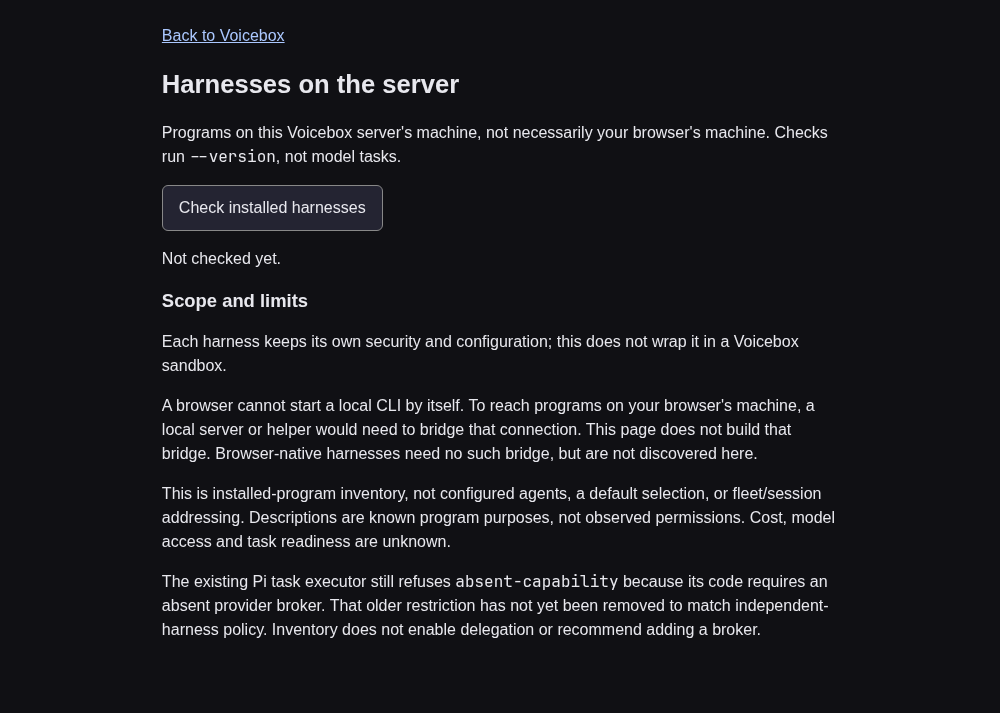
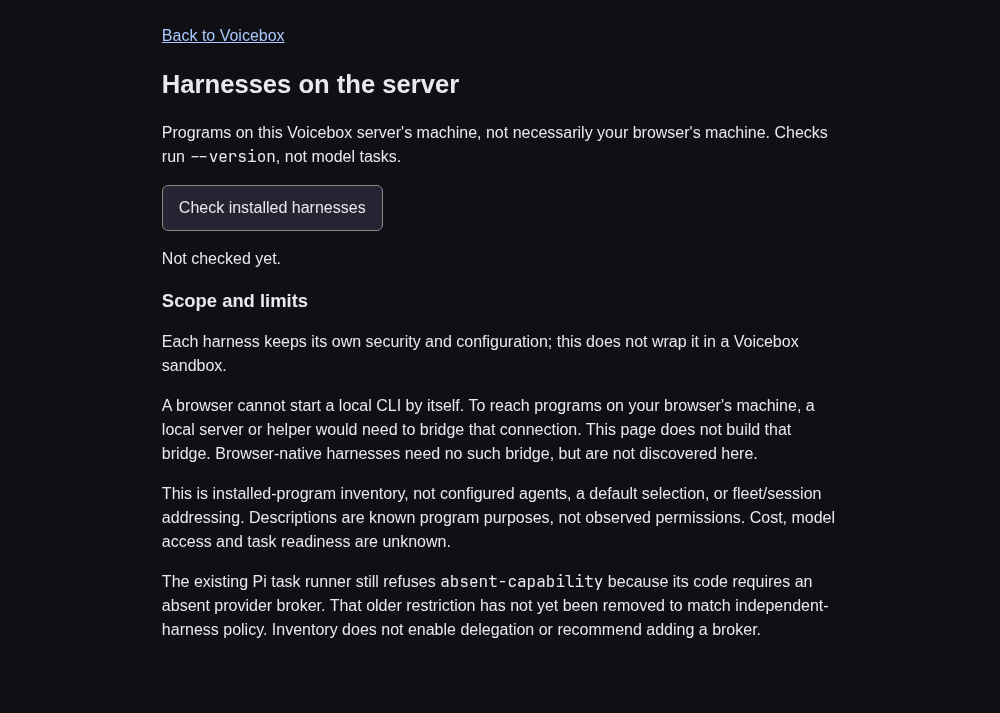
Use plain language for Pi task runner on inventory page

Changed region(s): [[0.31, 0.8022, 0.837, 0.8331]]

diff --git a/public/harnesses.html b/public/harnesses.html
@@ -20,7 +20,7 @@
   <p>Each harness keeps its own security and configuration; this does not wrap it in a Voicebox sandbox.</p>
   <p>A browser cannot start a local CLI by itself. To reach programs on your browser's machine, a local server or helper would need to bridge that connection. This page does not build that bridge. Browser-native harnesses need no such bridge, but are not discovered here.</p>
   <p>This is installed-program inventory, not configured agents, a default selection, or fleet/session addressing. Descriptions are known program purposes, not observed permissions. Cost, model access and task readiness are unknown.</p>
-  <p>The existing Pi task executor still refuses <code>absent-capability</code> because its code requires an absent provider broker. That older restriction has not yet been removed to match independent-harness policy. Inventory does not enable delegation or recommend adding a broker.</p>
+  <p>The existing Pi task runner still refuses <code>absent-capability</code> because its code requires an absent provider broker. That older restriction has not yet been removed to match independent-harness policy. Inventory does not enable delegation or recommend adding a broker.</p>
 </main>
 </body>
 </html>
